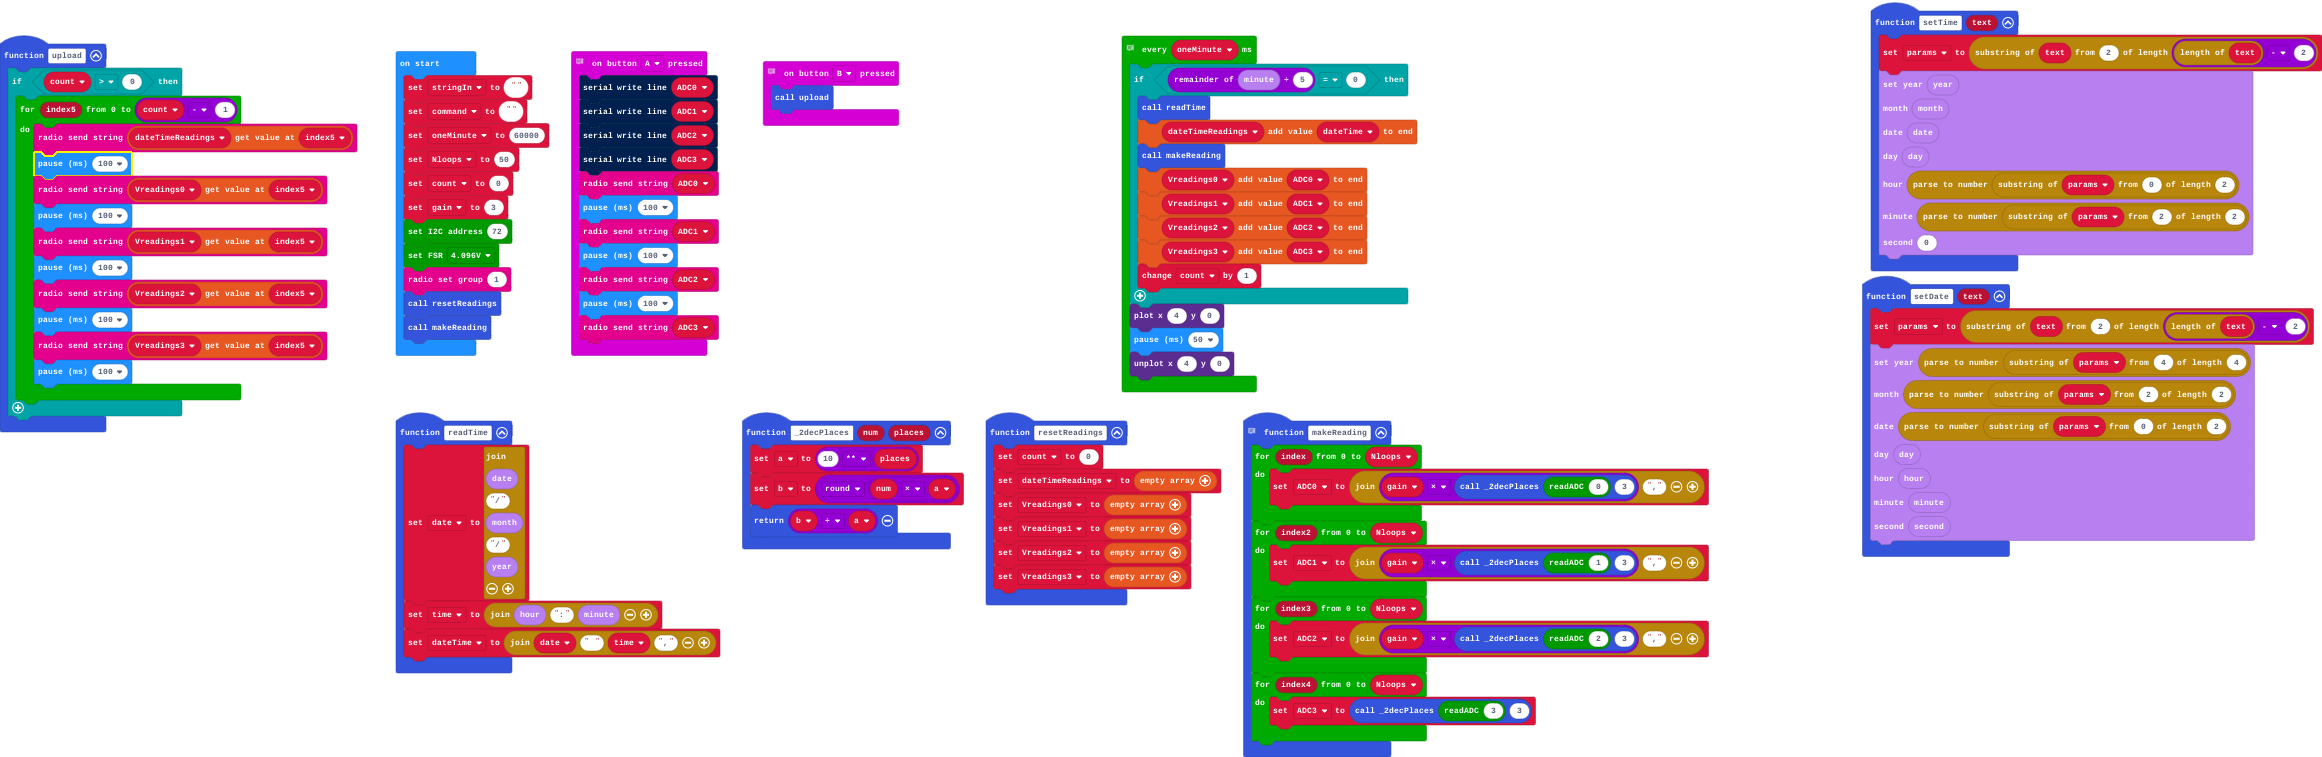
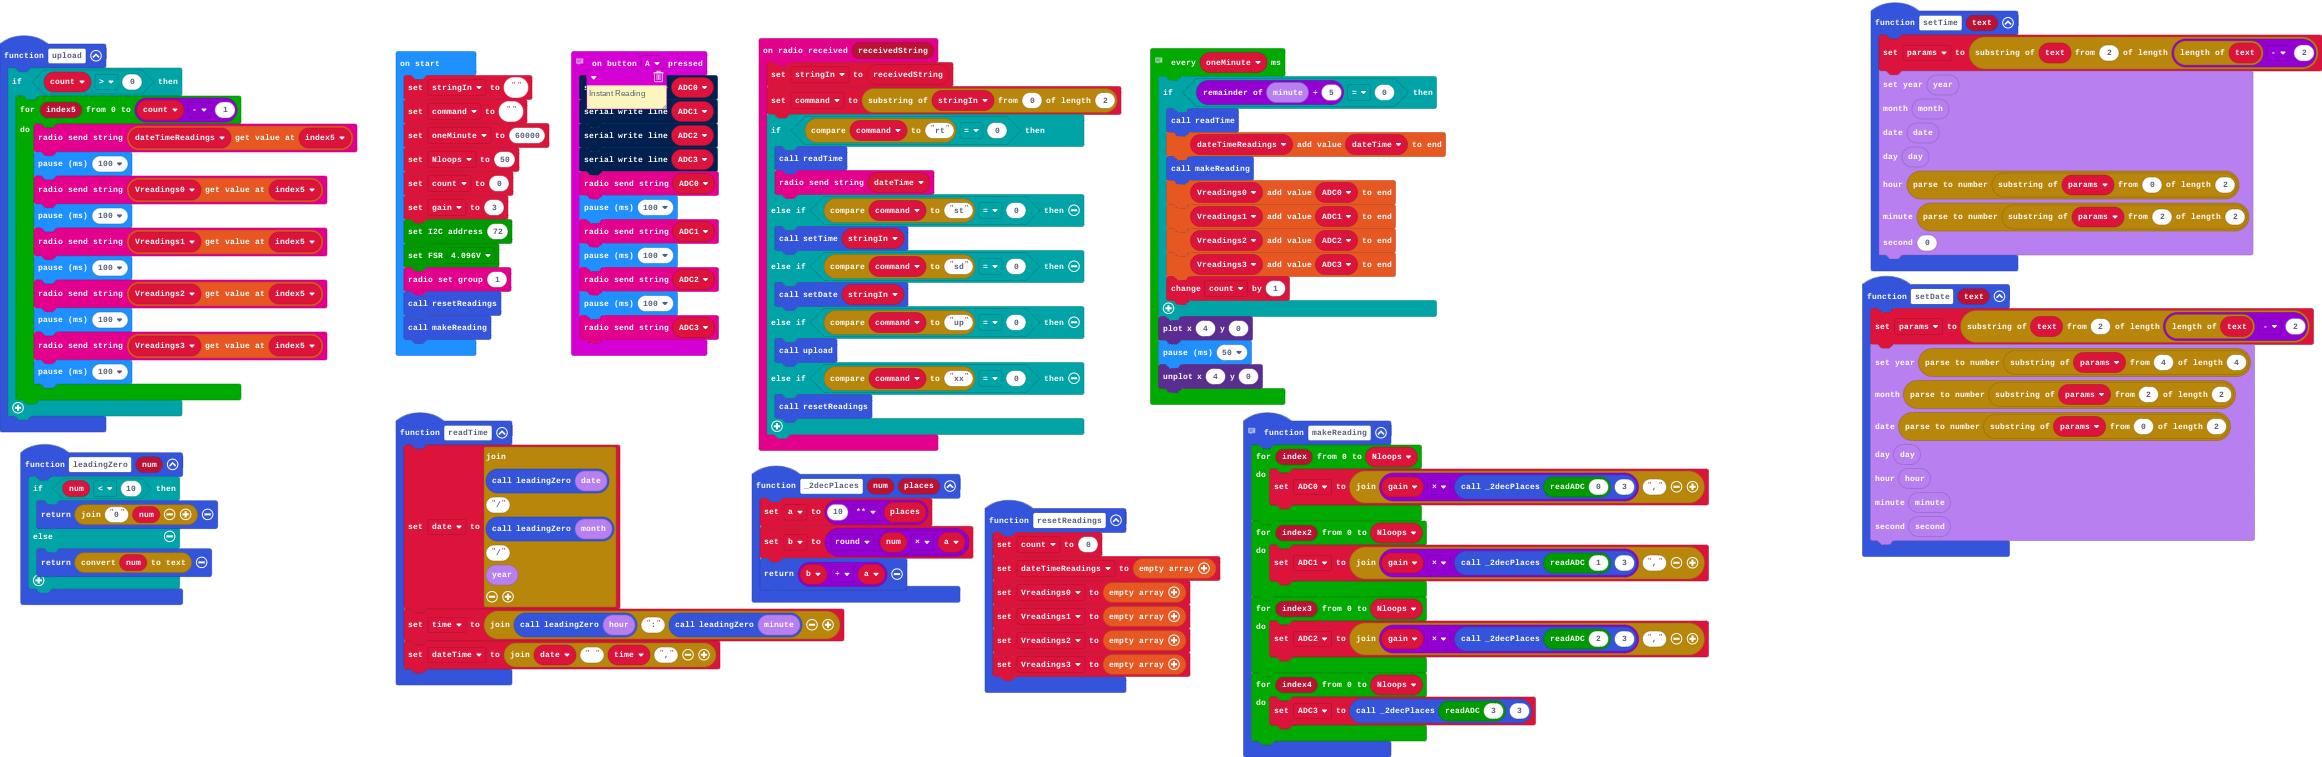
added leadingZero

diff --git a/main.ts b/main.ts
@@ -1,6 +1,6 @@
 function readTime () {
-    date = "" + DS3231.date() + "/" + DS3231.month() + "/" + DS3231.year()
-    time = "" + DS3231.hour() + ":" + DS3231.minute()
+    date = "" + leadingZero(DS3231.date()) + "/" + leadingZero(DS3231.month()) + "/" + DS3231.year()
+    time = "" + leadingZero(DS3231.hour()) + ":" + leadingZero(DS3231.minute())
     dateTime = "" + date + " " + time + ","
 }
 // Round to 3 dec places, and multiply by gain for attenuated inputs
@@ -25,6 +25,13 @@ function resetReadings () {
     Vreadings1 = []
     Vreadings2 = []
     Vreadings3 = []
+}
+function leadingZero (num: number) {
+    if (num < 10) {
+        return "0" + num
+    } else {
+        return convertToText(num)
+    }
 }
 function _2decPlaces (num: number, places: number) {
     a = 10 ** places
@@ -85,9 +92,21 @@ function setTime (text: string) {
     0
     )
 }
-// My TEMPORARY upload - no dateTime yet!
-input.onButtonPressed(Button.B, function () {
-    upload()
+radio.onReceivedString(function (receivedString) {
+    stringIn = receivedString
+    command = stringIn.substr(0, 2)
+    if (command.compare("rt") == 0) {
+        readTime()
+        radio.sendString(dateTime)
+    } else if (command.compare("st") == 0) {
+        setTime(stringIn)
+    } else if (command.compare("sd") == 0) {
+        setDate(stringIn)
+    } else if (command.compare("up") == 0) {
+        upload()
+    } else if (command.compare("xx") == 0) {
+        resetReadings()
+    }
 })
 let params = ""
 let b = 0
@@ -107,8 +126,10 @@ let date = ""
 let gain = 0
 let count = 0
 let Nloops = 0
-let stringIn = ""
 let command = ""
+let stringIn = ""
+stringIn = ""
+command = ""
 let oneMinute = 60000
 Nloops = 50
 count = 0
